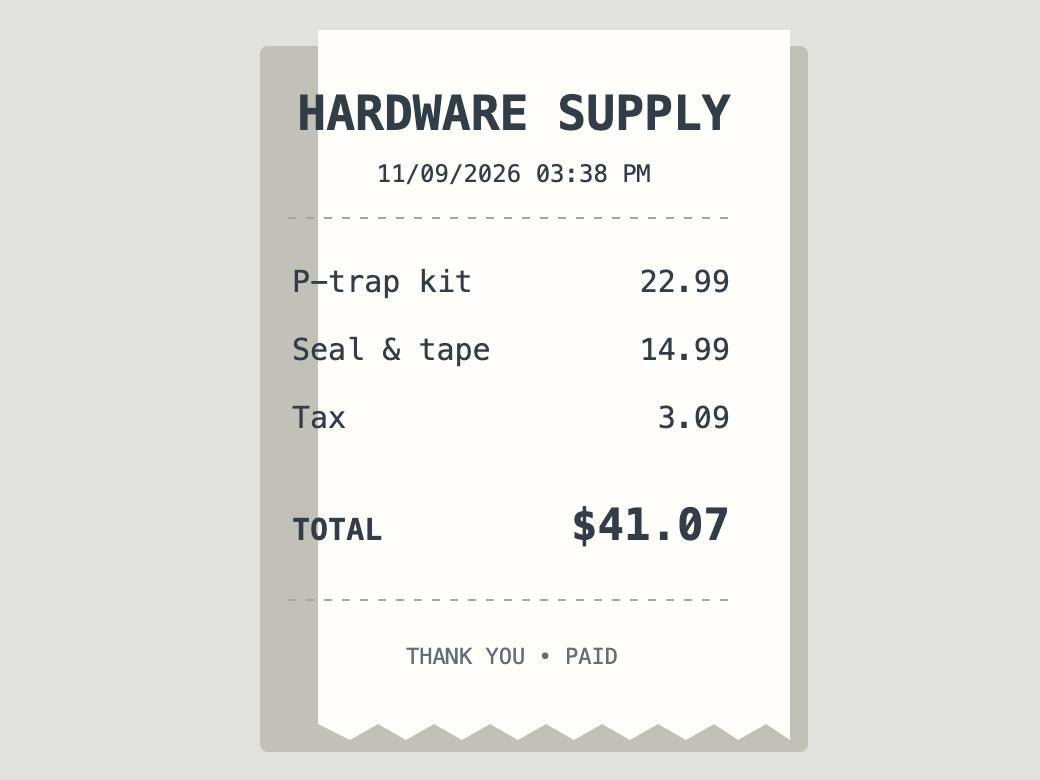
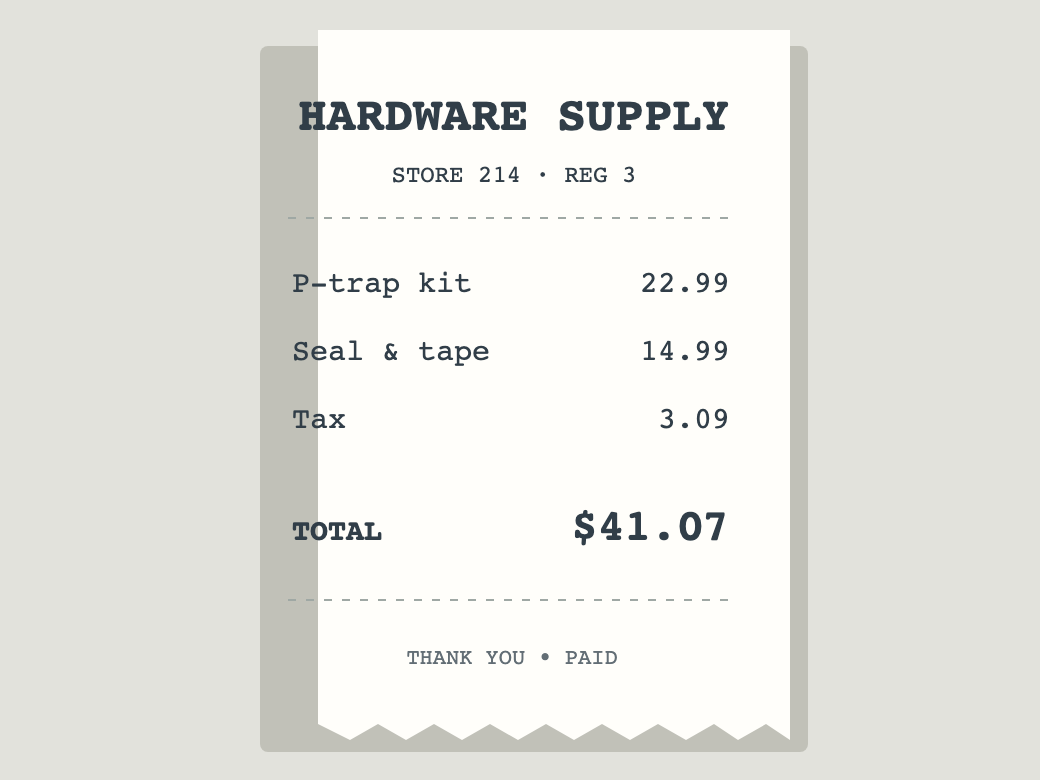
Override shown as PM override; negotiation deadline from contract; sample receipt undated

diff --git a/components/work-order-client.tsx b/components/work-order-client.tsx
@@ -39,7 +39,7 @@ export function WorkOrderClient({id,fixture,play}:{id:string;fixture:boolean;pla
  {error&&<div role="alert" className="mb-5 rounded-lg border border-[#F1D4AC] bg-warn-soft px-4 py-2 text-sm text-warn">{error}</div>}
  <div className="grid items-start gap-6 lg:grid-cols-[minmax(0,2fr)_minmax(320px,1fr)]"><div className="min-w-0 space-y-4">
  <StorySection key={`${order.id}-scope-${phase}`} title="Scope" summary={`Unit ${order.unit} · ${order.criteria.length} criteria`}><div className="mb-5 text-[13px] text-ink">{order.description}</div><div className="space-y-3">{order.criteria.map((c,i)=><div key={c.id} className="flex gap-3 text-[13px]"><span className="flex h-5 w-5 shrink-0 items-center justify-center rounded-full border border-[#CED8E6] text-[10px] font-semibold text-muted">{i+1}</span>{c.text}</div>)}</div></StorySection>
- <StorySection key={`${order.id}-neg-${phase}`} title="Negotiation" summary={`Agreed ${money(agreedCents(order))} · deposit ${order.contract?.deposit_pct??0}% · by 4:00 PM`} initialOpen={phase===1}><Thread turns={order.negotiation} replay={play&&phase===1}/><div className="mt-5 rounded-[10px] border border-[#D5E0F3] bg-[#F7F9FE] p-4"><div className="label mb-3">Agreement</div><div className="grid grid-cols-3 gap-3"><div><div className="label mb-1">Agreed</div><div className="amount text-[23px]">{money(agreedCents(order))}</div></div><div><div className="label mb-1">Deposit</div><div className="text-[17px] font-semibold">{order.contract?.deposit_pct??0}%</div></div><div><div className="label mb-1">Due</div><div className="text-[17px] font-semibold">{order.contract?.deadline?shortTime(order.contract.deadline):"—"}</div></div></div><div className="mt-4 space-y-2 border-t border-[#D5E0F3] pt-3">{order.criteria.map(c=><div key={c.id} className="flex items-center gap-2 text-[12px] text-[#526277]"><Check size={12} className="text-accent"/>{c.text}</div>)}</div></div></StorySection>
+ <StorySection key={`${order.id}-neg-${phase}`} title="Negotiation" summary={`Agreed ${money(agreedCents(order))} · deposit ${order.contract?.deposit_pct??0}% · by ${order.contract?.deadline?shortTime(order.contract.deadline):"—"}`} initialOpen={phase===1}><Thread turns={order.negotiation} replay={play&&phase===1}/><div className="mt-5 rounded-[10px] border border-[#D5E0F3] bg-[#F7F9FE] p-4"><div className="label mb-3">Agreement</div><div className="grid grid-cols-3 gap-3"><div><div className="label mb-1">Agreed</div><div className="amount text-[23px]">{money(agreedCents(order))}</div></div><div><div className="label mb-1">Deposit</div><div className="text-[17px] font-semibold">{order.contract?.deposit_pct??0}%</div></div><div><div className="label mb-1">Due</div><div className="text-[17px] font-semibold">{order.contract?.deadline?shortTime(order.contract.deadline):"—"}</div></div></div><div className="mt-4 space-y-2 border-t border-[#D5E0F3] pt-3">{order.criteria.map(c=><div key={c.id} className="flex items-center gap-2 text-[12px] text-[#526277]"><Check size={12} className="text-accent"/>{c.text}</div>)}</div></div></StorySection>
  <StorySection key={`${order.id}-proof-${phase}`} title="Proof" summary={`${order.proofs.length} ${order.proofs.length===1?"upload":"uploads"}`} initialOpen={phase>=2&&phase<=3}><ProofStrip proofs={order.proofs}/></StorySection>
  {order.verdict&&<section><div className="mb-3 flex items-center justify-between px-1"><h2 className="text-[15px] font-bold tracking-tight">Verdict</h2><div className="text-[12px] font-semibold text-muted">Evidence + decision</div></div><div className="grid gap-4 xl:grid-cols-[minmax(0,.9fr)_minmax(0,1.15fr)]"><div className="panel p-4"><div className="label mb-4">Submitted proof</div><div className="grid grid-cols-2 gap-3">{order.proofs.filter(p=>p.kind!=="checkin").map(p=><div key={p.id} className="min-w-0"><div className="mb-1.5 text-[11px] font-semibold capitalize text-muted">{p.kind}</div><img src={p.url} alt={`${p.kind} proof`} className="aspect-[4/3] w-full rounded-lg border border-border object-cover"/></div>)}</div></div><VerdictCard order={order} onApprove={()=>void decision("approve")} onRedo={()=>void decision("redo")} working={working}/></div></section>}
  {order.payouts.length>0&&<StorySection key={`${order.id}-payout-${phase}`} title="Payouts" summary={`${money(paidCents(order))} paid`} initialOpen={phase>=4}><PayoutTimeline order={order}/></StorySection>}

diff --git a/components/verdict-card.tsx b/components/verdict-card.tsx
@@ -10,7 +10,7 @@ export function VerdictCard({order,onApprove,onRedo,working=false,embedded=false
  const blocked=["escalated","under_review","disputed"].includes(order.status);
  const override=order.status==="paid"&&v.verdict==="fail";
  return <div className="panel p-5 sm:p-6">
-  <div className="flex items-center justify-between gap-4"><div><div className="label mb-1">Verification</div><h3 className={`text-[30px] font-bold tracking-[-.055em] ${blocked?"text-warn":v.verdict==="pass"?"text-paid":"text-warn"}`}>{blocked?"NEEDS REVIEW":override?"APPROVED":v.verdict.toUpperCase()}</h3></div>
+  <div className="flex items-center justify-between gap-4"><div><div className="label mb-1">Verification</div><h3 className={`text-[30px] font-bold tracking-[-.055em] ${blocked?"text-warn":v.verdict==="pass"?"text-paid":"text-warn"}`}>{blocked?"NEEDS REVIEW":override?"APPROVED":v.verdict.toUpperCase()}</h3>{override&&<div className="mt-1 text-[12px] font-semibold text-muted">Property manager override · Verifier said {v.verdict} at {Math.round(v.confidence*100)}%</div>}</div>
    <div className="w-28"><div className="mb-2 flex items-baseline justify-between text-[11px] text-muted"><span>Confidence</span><span className="mono font-semibold text-ink">{Math.round(v.confidence*100)}%</span></div><div className="h-1.5 overflow-hidden rounded-full bg-[#E6EAF0]"><div className={`h-full rounded-full ${blocked?"bg-[#C58A27]":"bg-paid"}`} style={{width:`${Math.round(v.confidence*100)}%`}}/></div></div>
   </div>
   <div className="mt-5 space-y-0.5">{v.criteria.map((c,i)=>{const criterion=order.criteria.find(x=>x.id===c.id);return <div key={c.id} className="grid grid-cols-[18px_1fr] gap-x-3 py-2.5 animate-criteriaIn" style={{animationDelay:`${i*300}ms`}}><span className={`icon-ring mt-0.5 h-[18px] w-[18px] ${c.met?"bg-paid-soft text-paid":"bg-warn-soft text-warn"}`}>{c.met?<Check size={13} strokeWidth={3}/>:<X size={12} strokeWidth={3}/>}</span><div className="min-w-0"><div className="text-[13px] font-medium text-ink">{criterion?.text??`Criterion ${i+1}`}</div><div className="mt-0.5 text-[12px] italic text-muted">“{c.evidence}”</div></div></div>})}</div>
